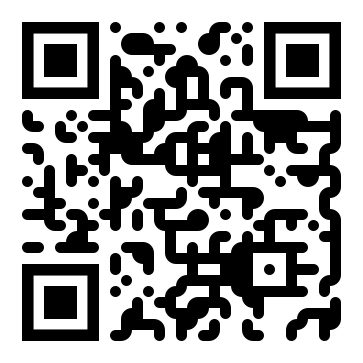
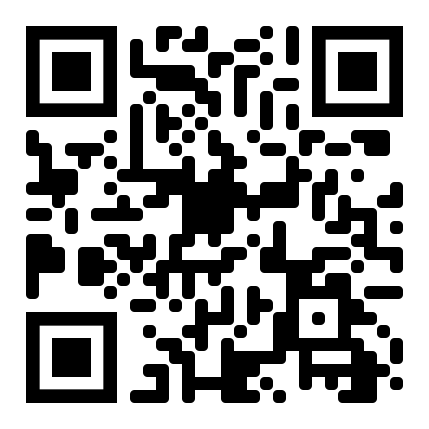
constancias

diff --git a/resources/views/consulta/constancia.blade.php b/resources/views/consulta/constancia.blade.php
@@ -1,0 +1,84 @@
+@extends('layouts.blanco')
+@section('titulo', 'UNAMAD - Consultas - Firma Digital')
+
+@section('js')
+<script src='https://www.google.com/recaptcha/api.js'></script>
+<script src="{{ asset('js/externo/validar.js?v='.config('app.version')) }}" type="text/javascript"></script>
+@endsection
+
+
+@section('contenido')
+<div class="container py-4">
+    <div class="row">
+        <div class="col-12 text-center mb-4">        
+            <a href="{{ url('/') }}">
+                <img src="{{ asset('img/logo_horizontal.png') }}" height="60" alt="">
+            </a>           
+        </div>
+    </div>
+
+    <div class="page-header mb-4">
+        <div class="row align-items-center mw-100">
+            <div class="col">
+                <div>
+                    <ol class="breadcrumb breadcrumb-alternate" aria-label="breadcrumbs">
+                        <li class="breadcrumb-item"><a href="{{ url('/') }}">Inicio</a></li>
+                        <li class="breadcrumb-item"><a href="{{ url('consultas') }}">Consultas</a></li>
+                        <li class="breadcrumb-item active" aria-current="page">Constancias</li>
+                    </ol>
+                </div>
+                <h2 class="page-title">
+                    Validar constancias / certificados
+                </h2>
+            </div>            
+        </div>
+    </div>    
+    <div class="row row-cards">
+        <div class="col-md-4">
+            <div class="card card-sm mb-3">
+                <img src="{{ asset('img/codigo_constancia.png') }}" alt="" class="w-100 card-img">
+            </div>
+        </div>
+        <div class="col-md-4">
+            @if(session('error'))
+            <div class="alert alert-important alert-danger alert-dismissible" role="alert">                                      
+                {{ session('error') }}               
+                <a class="btn-close btn-close-white" data-bs-dismiss="alert" aria-label="close"></a>
+            </div>
+            @endif     
+            
+            <form action="{{ url('consultas/constancias/validar') }}" method="POST" onsubmit="return guardar_todo(this);" >
+                @csrf       
+                <div class="card mb-3">
+                    <div class="card-header">
+                        <h3 class="card-title">Datos del constancia / certificado</h3>
+                    </div>
+                    <div class="card-body">
+                        <div id="form_principal">
+                            <div class="form-group form-required mb-3">
+                                <label class="form-label">Código de Documento</label>
+                                <div class="input-group input-group-flat">
+                                    <span class="input-group-text">C-</span>
+                                    <input id="codigo" type="text" name="codigo" class="form-control mayuscula validar_minimo:8 ps-0" placeholder="00000000" maxlength="8" autocomplete="off" autofocus>
+                                </div>
+                            </div>
+                        </div>
+                        <div class="form-group form-required">
+                            <label class="form-label">Validación</label>
+                            <div class="g-recaptcha" data-callback="capcha_filled"
+                                data-expired-callback="capcha_expired" data-sitekey="{{ config('app.recaptcha_public') }}"></div>   
+                        </div>
+                    </div>
+                </div>
+                <div>
+                    <button type="submit" class="btn btn-primary w-100">
+                        <svg xmlns="http://www.w3.org/2000/svg" class="icon" width="24" height="24" viewBox="0 0 24 24" stroke-width="2" stroke="currentColor" fill="none" stroke-linecap="round" stroke-linejoin="round"><path stroke="none" d="M0 0h24v24H0z" fill="none"/><circle cx="10" cy="10" r="7" /><line x1="21" y1="21" x2="15" y2="15" /></svg>
+                        Consultar
+                    </button>
+                </div>
+            </form>
+        </div>                                    
+    </div>
+   
+</div>
+@endsection

diff --git a/app/Http/Controllers/ConsultaController.php b/app/Http/Controllers/ConsultaController.php
@@ -15,6 +15,7 @@ use App\Models\Procedimiento;
 use App\Models\Documento_tipo;
 use App\Models\Dependencia;
 use App\Models\Invitado;
+use App\Models\Cert_archivo;
 use Carbon\Carbon;
 use Validator;
 use stdClass;
@@ -82,6 +83,67 @@ class ConsultaController extends Controller
 
         if($archivo == null) {
             return back()->with('error', 'No se pudo encontrar el archivo en los registros.');  
+        }
+        
+        if($archivo->formato != 'pdf')
+            return back()->with('error', 'El archivo no tiene un formato válido.');   
+
+        $ruta = Storage::disk($this->disco)->path($archivo->ruta);
+
+        if(!file_exists($ruta))
+            return back()->with('error', 'No se pudo encontrar el archivo.');    
+    
+        return response()->file($ruta);
+    }
+
+    public function constancias()
+    {
+        return view('consulta.constancia');
+    }
+
+    public function constancias_post(Request $request)
+    {        
+        //validamos codigo
+        $validator = Validator::make($request->all(), [             
+            'codigo' => 'required'
+        ]);
+
+        if ($validator->fails()) {
+            return back()->with('error', 'El campo código es requerido.');  
+        }
+
+        if(strlen($request->codigo) != 8){
+            return back()->with('error', 'El campo código debe tener 8 digitos.');  
+        }
+
+        //validamos recaptcha
+        $client = new Client;
+        $response = $client->post(
+            'https://www.google.com/recaptcha/api/siteverify',
+            [
+                'form_params' =>
+                [
+                    'secret' => $this->privado,
+                    'response' => $request->get('g-recaptcha-response')
+                ]
+            ]
+        );
+
+        $body = json_decode((string)$response->getBody());
+
+        if(!$body->success) {
+            return back()->with('error', 'Captcha incorrecto.');    
+        }
+
+        //validamos archivo
+        $archivo = Cert_archivo::where('codigo', $request->codigo)->first();
+
+        if($archivo == null) {
+            return back()->with('error', 'No se pudo encontrar el archivo en los registros.');  
+        }
+        //publico-->0:no 1:si
+        if($archivo->publico != 1) {
+            return back()->with('error', 'No se pudo encontrar el archivo en los registros [Publicado].');  
         }
         
         if($archivo->formato != 'pdf')

diff --git a/resources/views/consulta/index.blade.php b/resources/views/consulta/index.blade.php
@@ -31,6 +31,25 @@
                 </div>
             </div>
         </div>
+        <div class="col-md-4">
+            <div class="card">
+                <div class="card-body p-4">
+                    <div class="d-flex flex-column align-items-center text-center">
+                        <div class="pb-4 pt-2">
+                            <img src="{{ asset('img/consulta_constancia.jpg') }}" alt="" height="150px">
+                        </div>
+                        <div class="mb-3" style="font-size: 1.25rem; line-height: 1.4; font-weight: 600;">Validar constancias</div>
+                        <p class="mb-3 text-muted">Descarga y/o valida el contenido de un certificado / constancia de participación.</p>
+                        <div>
+                            <a href="{{ url('consultas/constancias') }}" class="btn btn-pink">
+                                Consultar
+                                <svg xmlns="http://www.w3.org/2000/svg" class="icon me-0 ms-2" width="24" height="24" viewBox="0 0 24 24" stroke-width="2" stroke="currentColor" fill="none" stroke-linecap="round" stroke-linejoin="round"><path stroke="none" d="M0 0h24v24H0z" fill="none"/><line x1="5" y1="12" x2="19" y2="12" /><line x1="13" y1="18" x2="19" y2="12" /><line x1="13" y1="6" x2="19" y2="12" /></svg>
+                            </a>
+                        </div>
+                    </div>
+                </div>
+            </div>
+        </div>
    </div>
 </div>
 @endsection

diff --git a/routes/web.php b/routes/web.php
@@ -43,14 +43,15 @@ Route::get('/status', function () {
     return  view('paginas.status');
 });
 
-Route::get('/validar', function () {
-    return redirect('consultas/firmas');
-});
+Route::get('/validar', function () { return redirect('consultas/firmas'); });
+Route::get('/constancias', function () { return redirect('consultas/constancias'); });
 
 Route::prefix('consultas')->group(function () {
     Route::get('/', [App\Http\Controllers\ConsultaController::class, 'index']);
     Route::get('firmas', [App\Http\Controllers\ConsultaController::class, 'firmas']);
     Route::post('firmas/validar', [App\Http\Controllers\ConsultaController::class, 'firmas_post']);  
+    Route::get('constancias', [App\Http\Controllers\ConsultaController::class, 'constancias']);
+    Route::post('constancias/validar', [App\Http\Controllers\ConsultaController::class, 'constancias_post']);    
 });
 
 

diff --git a/app/Utilidades/Recursos.php b/app/Utilidades/Recursos.php
@@ -180,7 +180,7 @@ class Recursos
     public function incrustar_codigo_certificado($archivo)
     {
         $ahora = Carbon::now();     
-        $link = "sgd.unamad.edu.pe/contancias";  
+        $link = "sgd.unamad.edu.pe/constancias";  
         $texto = utf8_decode("Revise su autenticidad en $link o escaneado el código QR.");                
         $resultado = false;      
         //si existe el archivo
@@ -207,7 +207,7 @@ class Recursos
                     $pdf->SetTextColor(0);  
                     $pdf->SetFont('Arial','',8);
                     $pdf->SetFillColor(255);
-                    $pdf->MultiCell(41.5,3,$texto,0,'J',true);
+                    $pdf->MultiCell(43,3,$texto,0,'J',true);
                     $pdf->Ln(1.5);
                     $pdf->SetFont('Arial','',8);
                     $pdf->Cell(13.5,3,utf8_decode('CÓDIGO: '),0,0,'L',true);
